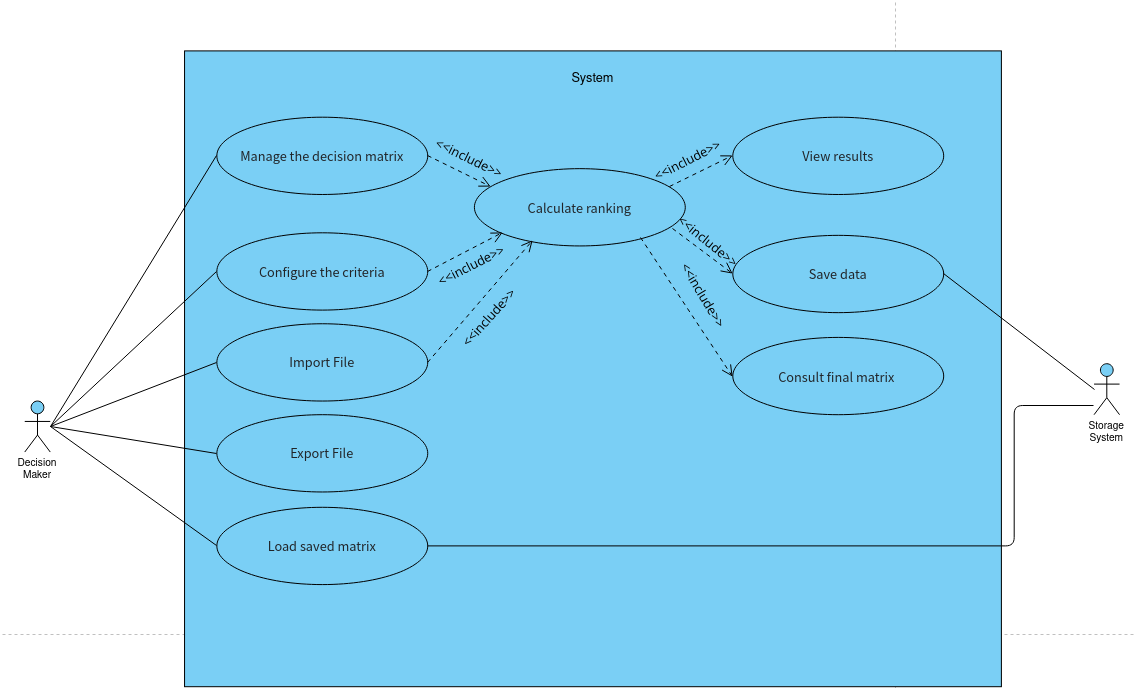
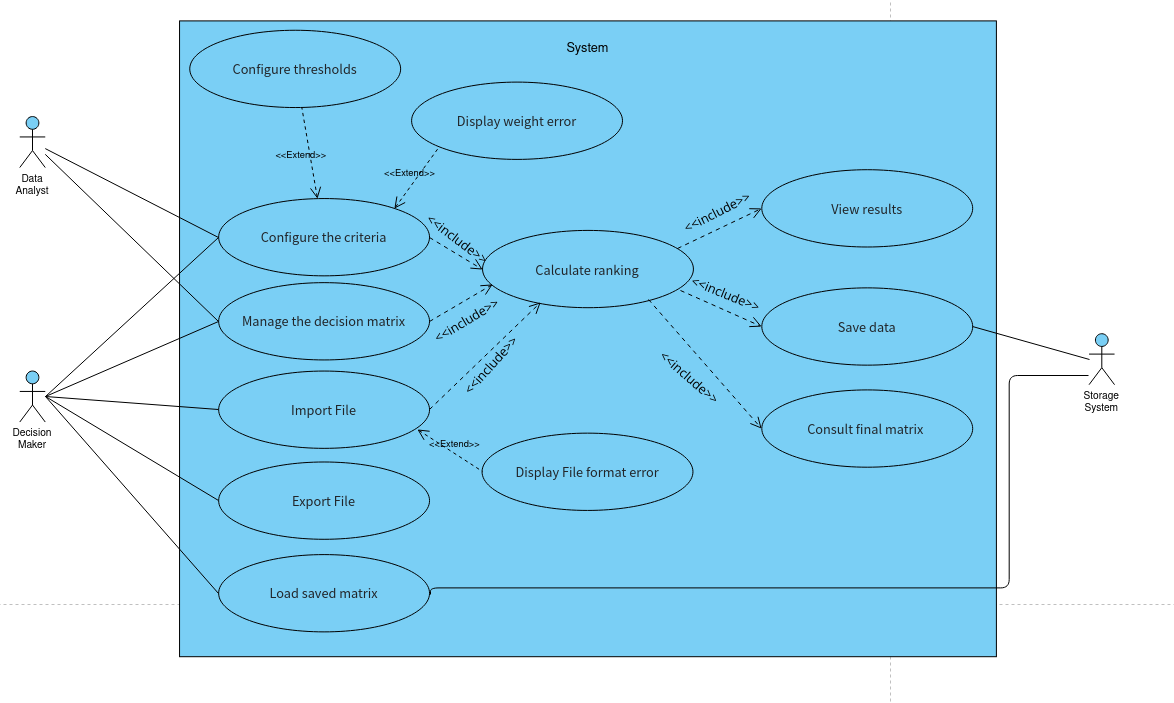
Fix : bug import json

diff --git a/js/script.js b/js/script.js
@@ -250,15 +250,17 @@ async function sendData() {
     
     let sumWeights = 0;
     for (let j = 1; j <= 100; j++) { // Use a reasonable limit
-        const w = data[`weight_${j}`];
-        if (w !== undefined) {
+        let w = data[`weight_${j}`];
+        if (w !== undefined && w !== null) {
+            // Support both dot and comma as decimal separator
+            w = String(w).replace(',', '.');
             sumWeights += parseFloat(w || 0);
         }
     }
     
     const warningDiv = document.getElementById('weightWarning');
     // Allow a small margin for floating point precision
-    if (Math.abs(sumWeights - 1.0) > 0.001) {
+    if (isNaN(sumWeights) || Math.abs(sumWeights - 1.0) > 0.001) {
         if (warningDiv) warningDiv.classList.remove('hidden');
         return; // Block calculation
     } else {
@@ -270,9 +272,23 @@ async function sendData() {
     xhr.open("POST", url, true);
     xhr.setRequestHeader("Content-Type", "application/json");
     xhr.onreadystatechange = function () {
-        if (xhr.readyState === 4 && xhr.status === 200) {
-            var results = JSON.parse(xhr.responseText);
-            displayResults(results);
+        if (xhr.readyState === 4) {
+            if (xhr.status === 200) {
+                try {
+                    var results = JSON.parse(xhr.responseText);
+                    displayResults(results);
+                } catch (e) {
+                    console.error("Error parsing results:", e);
+                }
+            } else {
+                console.error("Server error:", xhr.status, xhr.responseText);
+                try {
+                    const err = JSON.parse(xhr.responseText);
+                    if (err.error) alert("Error during calculation: " + err.error);
+                } catch (e) {
+                    alert("An unexpected error occurred during calculation.");
+                }
+            }
         }
     };
     xhr.send(JSON.stringify(data));

diff --git a/src/main/java/controller/PrometheeServlet.java b/src/main/java/controller/PrometheeServlet.java
@@ -44,7 +44,9 @@ public class PrometheeServlet extends HttpServlet {
                 PrometheeCalcul engine = new PrometheeCalcul();
                 matrix = engine.calculate(alternatives, criteria);
             } else {
-                System.out.print("Error: Alternative size must be > 2");
+                response.setStatus(HttpServletResponse.SC_BAD_REQUEST);
+                response.getWriter().print("{\"error\": \"At least two alternatives are required for calculation.\"}");
+                return;
             }
 
             // Create a wrapper object for the response
@@ -79,17 +81,34 @@ public class PrometheeServlet extends HttpServlet {
         });
 
         for (int i : indices) {
-            String name = node.get("critName_" + i).asText();
+            String nameField = "critName_" + i;
+            String name = node.has(nameField) ? node.get(nameField).asText() : "Criterion " + i;
+            
             double weight = getDoubleSafe(node, "weight_" + i);
-            boolean isMax = node.get("isMax_" + i).asBoolean() || "true".equals(node.get("isMax_" + i).asText());
-            String type = node.get("func_" + i).asText();
+            
+            boolean isMax = false;
+            if (node.has("isMax_" + i)) {
+                JsonNode maxNode = node.get("isMax_" + i);
+                isMax = maxNode.asBoolean() || "true".equals(maxNode.asText());
+            }
+
+            String type = "type1";
+            if (node.has("func_" + i)) {
+                type = node.get("func_" + i).asText();
+            }
             
             double p = getDoubleSafe(node, "p_" + i);
             double q = getDoubleSafe(node, "q_" + i);
             double s = getDoubleSafe(node, "s_" + i);
 
-            PreferenceFunction func = createFunction(type, p, q, s);
-            list.add(new Criterion(name, weight, isMax, func));
+            try {
+                PreferenceFunction func = createFunction(type, p, q, s);
+                list.add(new Criterion(name, weight, isMax, func));
+            } catch (IllegalArgumentException e) {
+                // If parameters are invalid for the chosen type, we fallback to UsualFunction
+                // or we could rethrow to let the user know. Let's rethrow with more context.
+                throw new IllegalArgumentException("Criterion '" + name + "': " + e.getMessage());
+            }
         }
         return list;
     }
@@ -116,7 +135,8 @@ public class PrometheeServlet extends HttpServlet {
         java.util.Collections.sort(critIndices);
 
         for (int i : indices) {
-            String name = node.get("altName_" + i).asText();
+            String nameField = "altName_" + i;
+            String name = node.has(nameField) ? node.get(nameField).asText() : "Alternative " + i;
             Alternative alt = new Alternative(String.valueOf(i), name);
             
             for (int j = 0; j < criteria.size(); j++) {

diff --git a/src/main/java/model/PrometheeCalcul.java b/src/main/java/model/PrometheeCalcul.java
@@ -23,17 +23,17 @@ public class PrometheeCalcul {
             for (int j = 0; j < n; j++) {
                 if (i == j) {
                     matrix[i][j] = 0.0;
-                }
-                
-                double weightedSum = 0;
-                for (Criterion c : listC) {
-                    double valI = listA.get(i).getValue(c);
-                    double valJ = listA.get(j).getValue(c);
+                } else {
+                    double weightedSum = 0;
+                    for (Criterion c : listC) {
+                        double valI = listA.get(i).getValue(c);
+                        double valJ = listA.get(j).getValue(c);
+                        
+                        weightedSum += c.getWeight() * c.getPreference(c.isMaximize() ? (valI - valJ) : (valJ - valI));
+                    }
                     
-                    weightedSum += c.getWeight() * c.getPreference(c.isMaximize() ? (valI - valJ) : (valJ - valI));
+                    matrix[i][j] = (totalWeight > 0) ? (weightedSum / totalWeight) : 0.0;
                 }
-                
-                matrix[i][j] = (totalWeight > 0) ? (weightedSum / totalWeight) : 0.0;
             }
         }
         return matrix;
